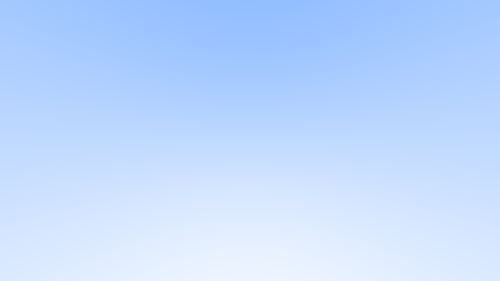
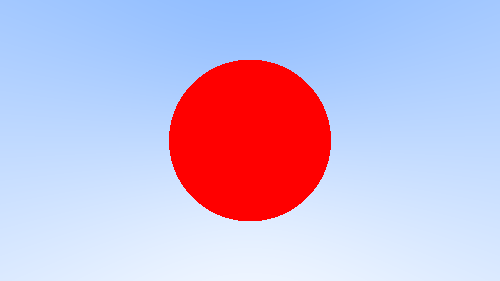
Simple sphere intersection
No antialising

Changed region(s): [[0.33, 0.1993, 0.66, 0.7972]]

diff --git a/src/main.cpp b/src/main.cpp
@@ -13,8 +13,26 @@ auto write_color(std::ostream& os, glm::dvec3 const pixel_color) -> void
     os << static_cast<int>(max_color * pixel_color.b) << '\n';
 }
 
+[[nodiscard]] auto hit_sphere(glm::dvec3 const& center, double const radius, ray const& r) -> bool
+{
+    glm::dvec3 const oc = r.origin() - center;
+
+    auto const a = glm::dot(r.direction(), r.direction());
+    auto const b = 2.0 * glm::dot(oc, r.direction());
+    auto const c = dot(oc, oc) - radius * radius;
+    auto const discriminant = b * b - 4 * a * c;
+
+    return discriminant > 0;
+}
+
 [[nodiscard]] auto get_background(ray const& r)
 {
+    constexpr double sphere_radius = 0.5;
+
+    if(hit_sphere(glm::dvec3{ 0, 0, -1.0 }, sphere_radius, r)) {
+        return glm::dvec3{ 1.0, 0, 0 };
+    }
+
     auto const unit_direction = glm::normalize(r.direction());
     auto const t = 0.5 * (unit_direction.y + 1.0);
     auto const random_color = glm::dvec3{ 0.5, 0.7, 1.0 };
